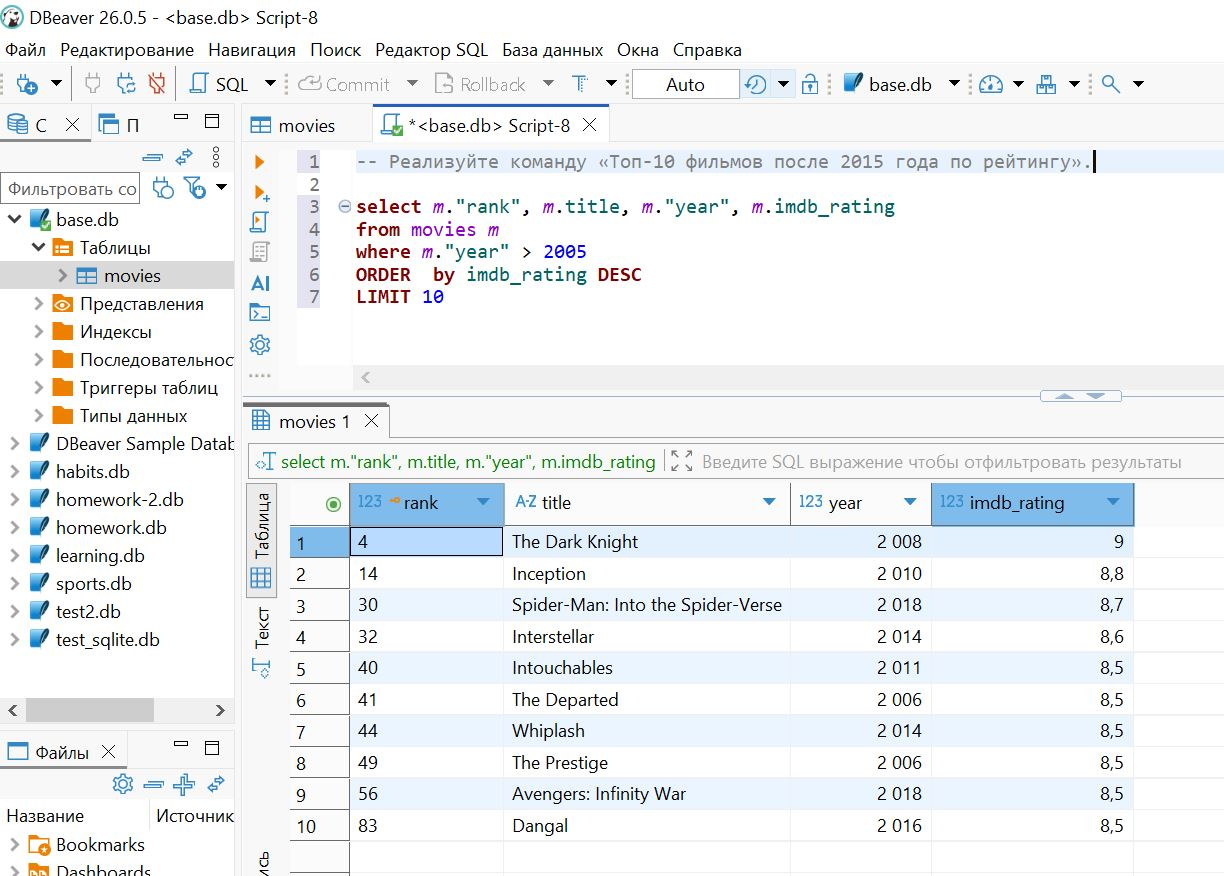
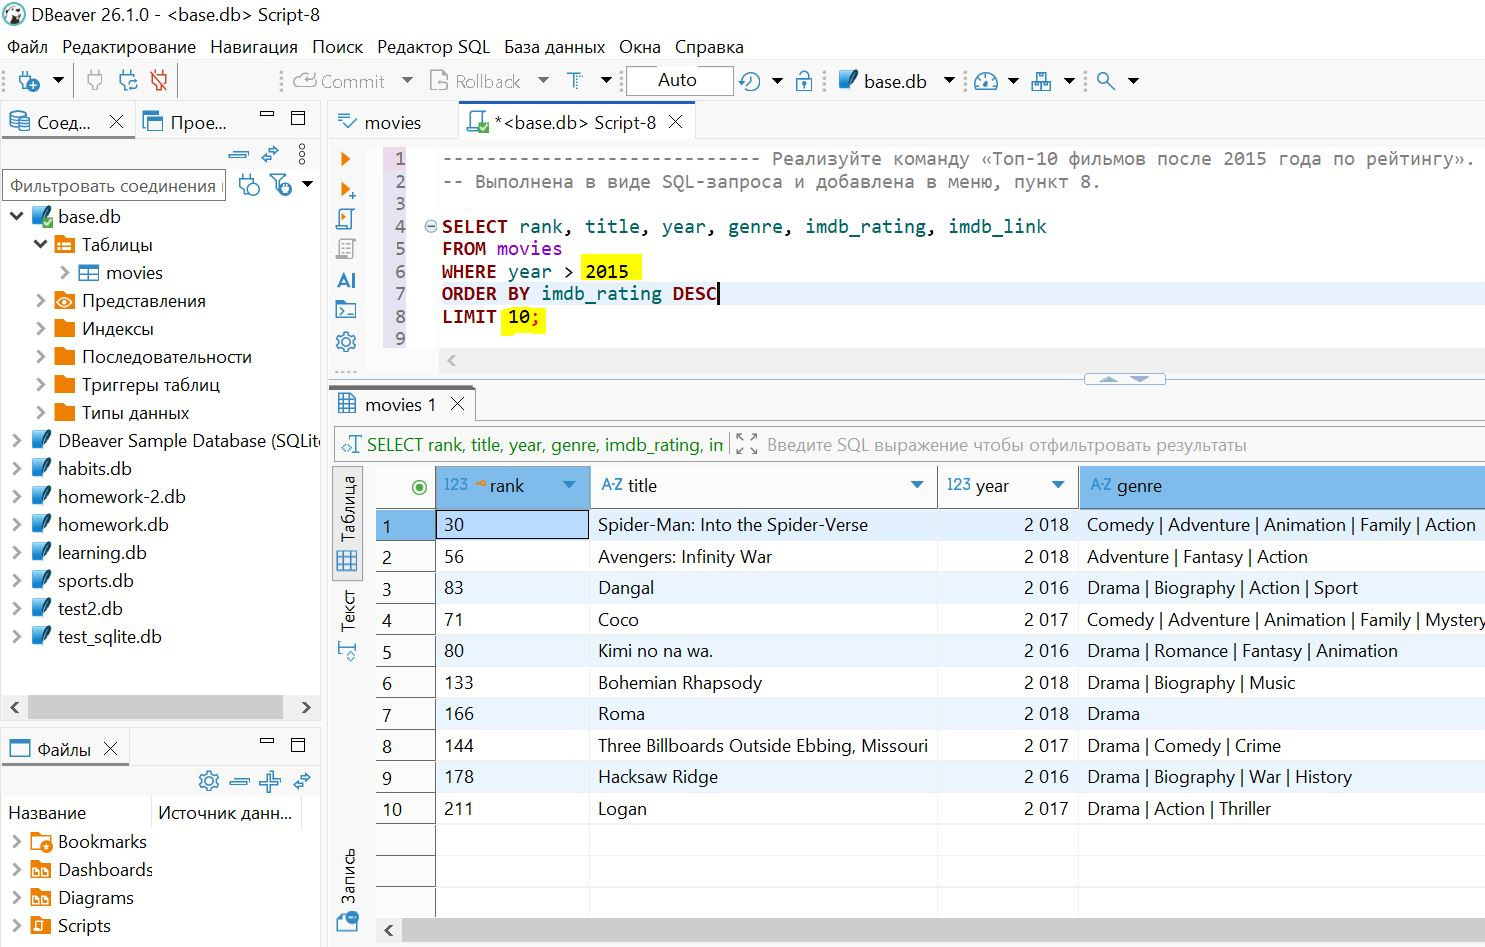
Добавить VACUUM после удаления фильмов и улучшить поиск по названию
- Вызов db.vacuum() после удаления старых фильмов для оптимизации БД
- Поиск по названию теперь регистронезависимый (UPPER(title) LIKE)
- Обновить пункт меню 7: 'Поиск фильма по слову в названии'
- Обновить скриншоты

Changed region(s): [[0.0, 0.0, 1.0, 1.0], [0.7451, 0.3699, 0.7761, 0.4007], [0.1863, 0.9863, 0.2173, 1.0]]

diff --git a/main.py b/main.py
@@ -49,6 +49,10 @@ def delete_movies_older_than(year: int, db_path: str = "base.db") -> int:
     params = (year,)
     
     deleted_count = db.execute(query, params, commit=True)
+    
+    # Оптимизация базы данных после удаления
+    db.vacuum()
+    
     return deleted_count
 
 
@@ -362,11 +366,11 @@ def find_movies_by_title(search_word: str, db_path: str = "base.db") -> list:
     query = """
         SELECT rank, title, year, genre, imdb_rating, imdb_link
         FROM movies
-        WHERE title LIKE ?
+        WHERE UPPER(title) LIKE ?
         ORDER BY imdb_rating DESC
     """
     
-    params = (f'%{search_word}%',)
+    params = (f'%{search_word.upper()}%',)
     
     movies = db.fetch_all(query, params)
     return movies
@@ -460,7 +464,7 @@ def print_menu():
     print("4. Показать количество фильмов в базе")
     print("5. Топ-5 фильмов по рейтингу")
     print("6. Перезалить БД из CSV")
-    print("7. Поиск фильма по названию")
+    print("7. Поиск фильма по слову в названии")
     print("8. Топ-10 фильмов после 2015 года")
     print("0. Выход")
     print("-" * 45)
